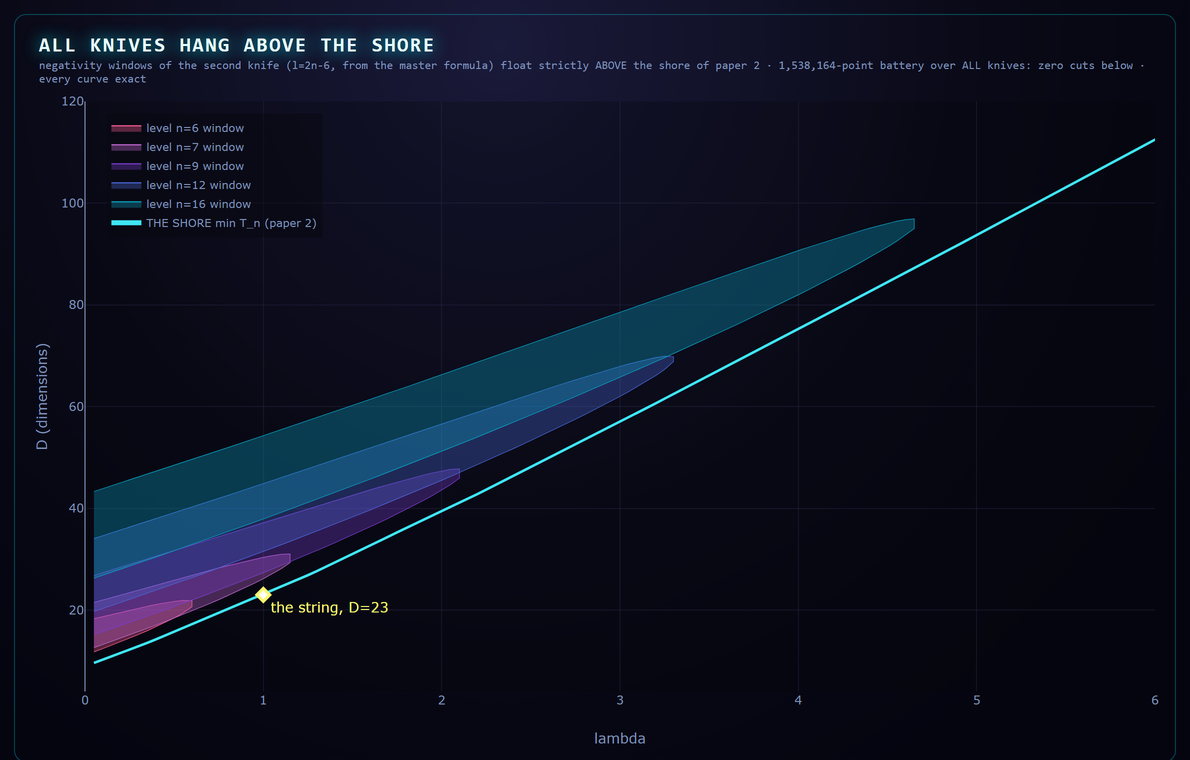
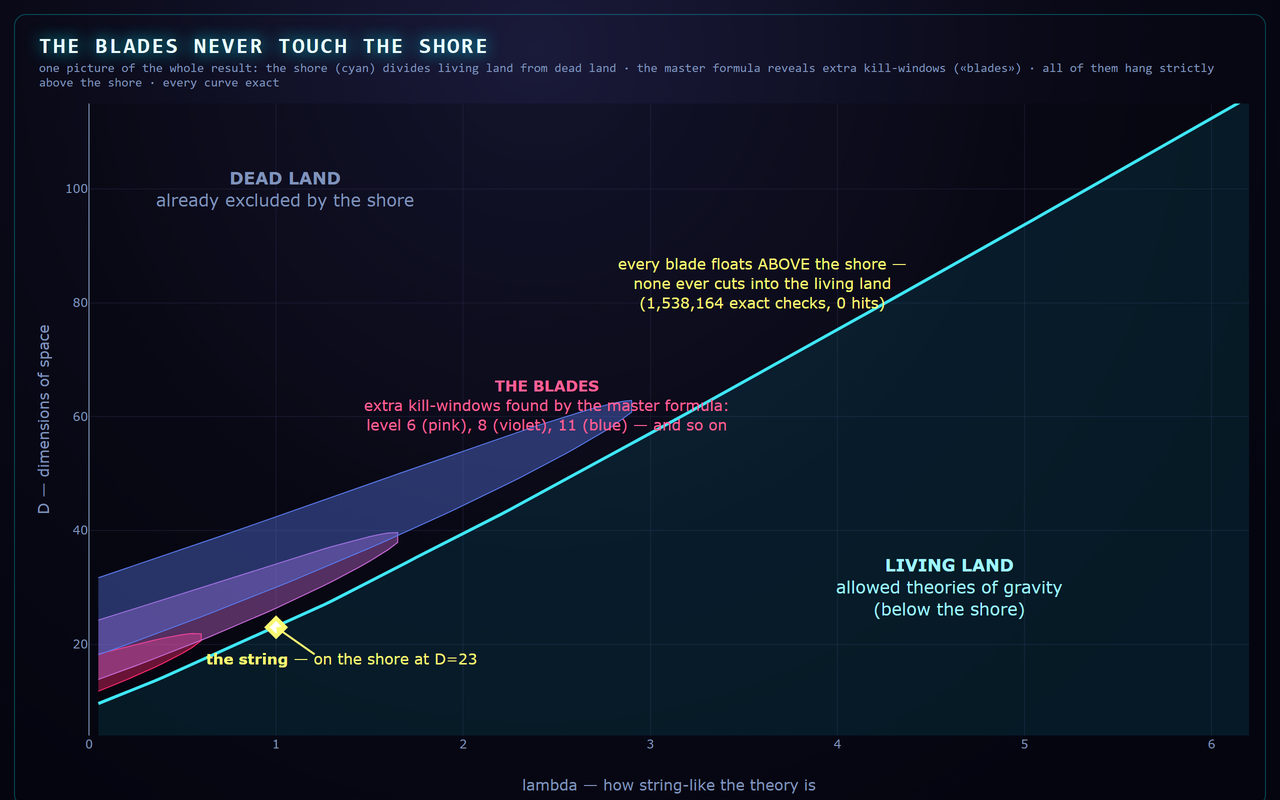
Knives figure v2: plain-word zones (living/dead land, blades), unicode dashes; paper 3 recompiled

diff --git a/article/visuals/knives-above-shore.html b/article/visuals/knives-above-shore.html
@@ -2,16 +2,16 @@
 <script src="https://cdn.plot.ly/plotly-2.32.0.min.js"></script>
 <style>body{margin:0;background:radial-gradient(ellipse at 42% 6%,#1a1a3a 0%,#0a0a18 48%,#050510 82%);font-family:Consolas,monospace}
 .panel{margin:14px;padding:10px;border:1px solid rgba(5,217,232,.3);border-radius:12px}
-h1{color:#eafdff;font-size:20px;margin:8px 14px 2px;letter-spacing:.09em;text-shadow:0 0 16px #05d9e8}
-.sub{color:#7f93bb;font-size:11.5px;margin:0 14px 6px}</style></head><body>
-<div class="panel"><h1>ALL KNIVES HANG ABOVE THE SHORE</h1>
-<p class="sub">negativity windows of the second knife (l=2n-6, from the master formula) float strictly ABOVE the shore of paper 2 &middot; 1,538,164-point battery over ALL knives: zero cuts below &middot; every curve exact</p>
-<div id="p" style="width:1150px;height:660px"></div></div>
+h1{color:#eafdff;font-size:22px;margin:8px 14px 2px;letter-spacing:.09em;text-shadow:0 0 16px #05d9e8}
+.sub{color:#7f93bb;font-size:12.5px;margin:0 14px 6px}</style></head><body>
+<div class="panel"><h1>THE BLADES NEVER TOUCH THE SHORE</h1>
+<p class="sub">one picture of the whole result: the shore (cyan) divides living land from dead land &middot; the master formula reveals extra kill-windows (&laquo;blades&raquo;) &middot; all of them hang strictly above the shore &middot; every curve exact</p>
+<div id="p" style="width:1240px;height:700px"></div></div>
 <script>
-Plotly.newPlot('p', [{"x": [], "y": [], "fill": "toself", "fillcolor": "#ff2a6d55", "line": {"color": "#ff2a6d", "width": 1.2}, "name": "level n=5 window", "mode": "lines"}, {"x": [0.05, 0.1, 0.15000000000000002, 0.2, 0.25, 0.30000000000000004, 0.35000000000000003, 0.4, 0.45, 0.5, 0.55, 0.6000000000000001, 0.6000000000000001, 0.55, 0.5, 0.45, 0.4, 0.35000000000000003, 0.30000000000000004, 0.25, 0.2, 0.15000000000000002, 0.1, 0.05], "y": [18.31577161495437, 18.74368892778793, 19.16588886420697, 19.58080832691688, 19.986419123226185, 20.37999919487043, 20.757732899042175, 21.113951026307788, 21.439507358521, 21.71765488812116, 21.90997501234225, 21.856379357972294, 20.664832763239815, 19.428661351294103, 18.4490117785455, 17.565795671782027, 16.74059442823767, 15.956661040351754, 15.204849289978046, 14.479489967682895, 13.776767430658875, 13.09395962064152, 12.429038344939329, 11.780440506257737], "fill": "toself", "fillcolor": "#ff5f9555", "line": {"color": "#ff5f95", "width": 1.2}, "name": "level n=6 window", "mode": "lines"}, {"x": [0.05, 0.1, 0.15000000000000002, 0.2, 0.25, 0.30000000000000004, 0.35000000000000003, 0.4, 0.45, 0.5, 0.55, 0.6000000000000001, 0.65, 0.7000000000000001, 0.75, 0.8, 0.8500000000000001, 0.9, 0.9500000000000001, 1.0, 1.05, 1.1, 1.1500000000000001, 1.1500000000000001, 1.1, 1.05, 1.0, 0.9500000000000001, 0.9, 0.8500000000000001, 0.8, 0.75, 0.7000000000000001, 0.65, 0.6000000000000001, 0.55, 0.5, 0.45, 0.4, 0.35000000000000003, 0.30000000000000004, 0.25, 0.2, 0.15000000000000002, 0.1, 0.05], "y": [21.506417361472266, 21.999482911149634, 22.492805999429187, 22.986129179944257, 23.479164344308515, 23.971587027455627, 24.4630292542438, 24.9530704391631, 25.44122564444565, 25.926930187149196, 26.40951909362056, 26.88819910728118, 27.362009636228933, 27.82976674369292, 28.2899801498531, 28.740725314721914, 29.179436570664002, 29.602551712540865, 30.004851467485622, 30.378093555442675, 30.707713701463412, 30.962563854371915, 31.040206019819294, 29.34985422114456, 28.139845784182285, 27.116081479259492, 26.176123312027208, 25.28882323130957, 24.439616962157935, 23.620262224516708, 22.825539745519045, 22.05188732002641, 21.296739280403465, 20.55817108666264, 19.83469245898386, 19.125119460596302, 18.428491499597783, 17.74401531940977, 17.071025946379073, 16.40895869756342, 15.757328635194973, 15.115715173763775, 14.483750338128026, 13.86110966322142, 13.247505040657575, 12.642679024069892], "fill": "toself", "fillcolor": "#c86bd855", "line": {"color": "#c86bd8", "width": 1.2}, "name": "level n=7 window", "mode": "lines"}, {"x": [0.05, 0.1, 0.15000000000000002, 0.2, 0.25, 0.30000000000000004, 0.35000000000000003, 0.4, 0.45, 0.5, 0.55, 0.6000000000000001, 0.65, 0.7000000000000001, 0.75, 0.8, 0.8500000000000001, 0.9, 0.9500000000000001, 1.0, 1.05, 1.1, 1.1500000000000001, 1.2000000000000002, 1.25, 1.3, 1.35, 1.4000000000000001, 1.4500000000000002, 1.5, 1.55, 1.6, 1.6500000000000001, 1.7000000000000002, 1.75, 1.8, 1.85, 1.9000000000000001, 1.9500000000000002, 2.0, 2.0500000000000003, 2.1, 2.1, 2.0500000000000003, 2.0, 1.9500000000000002, 1.9000000000000001, 1.85, 1.8, 1.75, 1.7000000000000002, 1.6500000000000001, 1.6, 1.55, 1.5, 1.4500000000000002, 1.4000000000000001, 1.35, 1.3, 1.25, 1.2000000000000002, 1.1500000000000001, 1.1, 1.05, 1.0, 0.9500000000000001, 0.9, 0.8500000000000001, 0.8, 0.75, 0.7000000000000001, 0.65, 0.6000000000000001, 0.55, 0.5, 0.45, 0.4, 0.35000000000000003, 0.30000000000000004, 0.25, 0.2, 0.15000000000000002, 0.1, 0.05], "y": [26.826693532949555, 27.360543167261284, 27.89601068916683, 28.433038926606883, 28.971567397891377, 29.51153201353531, 30.052864742010392, 30.595493233876475, 31.13934039771614, 31.684323920027445, 32.23035571966599, 32.77734132549228, 33.325179163472896, 33.873759736456634, 34.42296467603331, 34.972665641019496, 35.52272303087876, 36.072984474307546, 36.62328304266705, 37.17343512400543, 37.72323787483068, 38.27246614168277, 38.820868710225156, 39.368163691958415, 39.91403279161082, 40.45811410225731, 40.99999293519676, 41.53918998316212, 42.075145797935406, 42.60720006723962, 43.134563377410956, 43.65627782034461, 44.171160507672795, 44.67771990497913, 45.17402698528785, 45.65750710940324, 46.124583114905874, 46.57001381381224, 46.985531830089855, 47.356576532606255, 47.65226288126611, 47.77379586614664, 45.95002092774649, 44.67182108819955, 43.574721177317414, 42.559926185177304, 41.59655107168395, 40.67003520570479, 39.77211121120746, 38.89753790020831, 38.04273811028803, 37.205137202250874, 36.38280614912105, 35.574253416482186, 34.77829611596649, 33.99397633946917, 33.220504673326445, 32.457220805261244, 31.703565287055675, 30.959058811442603, 30.223286689720958, 29.495887014965703, 28.776541491905007, 28.064968232039575, 27.360916021032736, 26.664159705424538, 25.974496441722984, 25.29174261797619, 24.61573130554541, 23.946310133127, 23.283339500184567, 22.626691065534743, 21.976246460767257, 21.331896188730987, 20.693538675392396, 20.061079449612087, 19.434430430245676, 18.813509303791136, 18.19823897883112, 17.588547105925414, 16.984365653545773, 16.38563053220723, 15.792281260219625, 15.204260665523734], "fill": "toself", "fillcolor": "#7a3fd055", "line": {"color": "#7a3fd0", "width": 1.2}, "name": "level n=9 window", "mode": "lines"}, {"x": [0.05, 0.1, 0.15000000000000002, 0.2, 0.25, 0.30000000000000004, 0.35000000000000003, 0.4, 0.45, 0.5, 0.55, 0.6000000000000001, 0.65, 0.7000000000000001, 0.75, 0.8, 0.8500000000000001, 0.9, 0.9500000000000001, 1.0, 1.05, 1.1, 1.1500000000000001, 1.2000000000000002, 1.25, 1.3, 1.35, 1.4000000000000001, 1.4500000000000002, 1.5, 1.55, 1.6, 1.6500000000000001, 1.7000000000000002, 1.75, 1.8, 1.85, 1.9000000000000001, 1.9500000000000002, 2.0, 2.0500000000000003, 2.1, 2.15, 2.2, 2.25, 2.3000000000000003, 2.35, 2.4000000000000004, 2.45, 2.5, 2.5500000000000003, 2.6, 2.6500000000000004, 2.7, 2.75, 2.8000000000000003, 2.85, 2.9000000000000004, 2.95, 3.0, 3.0500000000000003, 3.1, 3.1500000000000004, 3.2, 3.25, 3.3000000000000003, 3.3000000000000003, 3.25, 3.2, 3.1500000000000004, 3.1, 3.0500000000000003, 3.0, 2.95, 2.9000000000000004, 2.85, 2.8000000000000003, 2.75, 2.7, 2.6500000000000004, 2.6, 2.5500000000000003, 2.5, 2.45, 2.4000000000000004, 2.35, 2.3000000000000003, 2.25, 2.2, 2.15, 2.1, 2.0500000000000003, 2.0, 1.9500000000000002, 1.9000000000000001, 1.85, 1.8, 1.75, 1.7000000000000002, 1.6500000000000001, 1.6, 1.55, 1.5, 1.4500000000000002, 1.4000000000000001, 1.35, 1.3, 1.25, 1.2000000000000002, 1.1500000000000001, 1.1, 1.05, 1.0, 0.9500000000000001, 0.9, 0.8500000000000001, 0.8, 0.75, 0.7000000000000001, 0.65, 0.6000000000000001, 0.55, 0.5, 0.45, 0.4, 0.35000000000000003, 0.30000000000000004, 0.25, 0.2, 0.15000000000000002, 0.1, 0.05], "y": [34.0759267382616, 34.63024697937573, 35.18615767936592, 35.74363982825594, 36.302673746313744, 36.86323904722012, 37.42531459854061, 37.988878479256456, 38.55390793407541, 39.12037932422287, 39.688268074363435, 40.25754861527987, 40.82819432187719, 41.40017744603503, 41.97346904377075, 42.54803889610716, 43.12385542295914, 43.70088558926807, 44.279094802500964, 44.8584468005221, 45.438903528691654, 46.02042500489141, 46.602969170988644, 47.18649172900959, 47.770945960053, 48.35628252363868, 48.94244923483281, 49.52939081603927, 50.11704861982237, 50.705360318489326, 51.29425955539318, 51.883675551983515, 52.47353266350163, 53.06374987480734, 53.6542402261248, 54.24491015633514, 54.83565874878761, 55.42637686123511, 56.016946117233374, 56.60723773090612, 57.197111129957165, 57.78641233268466, 58.37497202278526, 58.96260324983345, 59.54909866202203, 60.134227148785385, 60.717729731110225, 61.29931448170852, 61.878650178349616, 62.45535827978598, 63.02900264616248, 63.59907617391737, 64.16498312733215, 64.72601533519976, 65.28131941985615, 65.8298505334191, 66.37030509589617, 66.90101952278067, 67.41981115072875, 67.92371493966685, 68.40851766878144, 68.86785824917092, 69.29126451123572, 69.65900485719317, 69.92346614578219, 69.84191318676451, 68.85819527310532, 67.30579090410934, 66.10455262653781, 65.01174525015257, 63.97975563369239, 62.98885217937476, 62.02856271759994, 61.092526159466445, 60.17652928416075, 59.27760705160924, 58.39357679846809, 57.52277494023059, 56.66389789690432, 55.815900820607126, 54.97793033367479, 54.149278264900445, 53.32934887856541, 52.51763507110806, 51.71370070267325, 50.917167232013384, 50.12770343689792, 49.34501739003868, 48.56885011242245, 47.79897049348371, 47.035171181415066, 46.2772652257912, 45.5250833103086, 44.778471453265496, 44.03728908236573, 43.30140741173295, 42.570708064923, 41.84508189968862, 41.124427999379165, 40.40865280287581, 39.69766935040255, 38.99139662681942, 38.28975898736748, 37.59268565349646, 36.900110268559416, 36.21197050486346, 35.528207714973036, 34.84876662129189, 34.17359503888623, 33.502643627276, 32.835865667559744, 32.17321686176389, 31.51465515175549, 30.860140555416564, 30.209635018107207, 29.563102277691584, 28.920507741636897, 28.281818374884338, 27.6470025973489, 27.016030190053385, 26.38887220901512, 25.765500906113786, 25.14588965625436, 24.530012890219567, 23.91784603267415, 23.309365444843316, 22.704548371434996, 22.103372891430283, 21.505817872394807, 20.91186292800935, 20.321488378541844, 19.734675214016058], "fill": "toself", "fillcolor": "#4a68d855", "line": {"color": "#4a68d8", "width": 1.2}, "name": "level n=12 window", "mode": "lines"}, {"x": [0.05, 0.1, 0.15000000000000002, 0.2, 0.25, 0.30000000000000004, 0.35000000000000003, 0.4, 0.45, 0.5, 0.55, 0.6000000000000001, 0.65, 0.7000000000000001, 0.75, 0.8, 0.8500000000000001, 0.9, 0.9500000000000001, 1.0, 1.05, 1.1, 1.1500000000000001, 1.2000000000000002, 1.25, 1.3, 1.35, 1.4000000000000001, 1.4500000000000002, 1.5, 1.55, 1.6, 1.6500000000000001, 1.7000000000000002, 1.75, 1.8, 1.85, 1.9000000000000001, 1.9500000000000002, 2.0, 2.0500000000000003, 2.1, 2.15, 2.2, 2.25, 2.3000000000000003, 2.35, 2.4000000000000004, 2.45, 2.5, 2.5500000000000003, 2.6, 2.6500000000000004, 2.7, 2.75, 2.8000000000000003, 2.85, 2.9000000000000004, 2.95, 3.0, 3.0500000000000003, 3.1, 3.1500000000000004, 3.2, 3.25, 3.3000000000000003, 3.35, 3.4000000000000004, 3.45, 3.5, 3.5500000000000003, 3.6, 3.6500000000000004, 3.7, 3.75, 3.8000000000000003, 3.85, 3.9000000000000004, 3.95, 4.0, 4.05, 4.1000000000000005, 4.15, 4.2, 4.25, 4.3, 4.3500000000000005, 4.4, 4.45, 4.5, 4.55, 4.6000000000000005, 4.65, 4.65, 4.6000000000000005, 4.55, 4.5, 4.45, 4.4, 4.3500000000000005, 4.3, 4.25, 4.2, 4.15, 4.1000000000000005, 4.05, 4.0, 3.95, 3.9000000000000004, 3.85, 3.8000000000000003, 3.75, 3.7, 3.6500000000000004, 3.6, 3.5500000000000003, 3.5, 3.45, 3.4000000000000004, 3.35, 3.3000000000000003, 3.25, 3.2, 3.1500000000000004, 3.1, 3.0500000000000003, 3.0, 2.95, 2.9000000000000004, 2.85, 2.8000000000000003, 2.75, 2.7, 2.6500000000000004, 2.6, 2.5500000000000003, 2.5, 2.45, 2.4000000000000004, 2.35, 2.3000000000000003, 2.25, 2.2, 2.15, 2.1, 2.0500000000000003, 2.0, 1.9500000000000002, 1.9000000000000001, 1.85, 1.8, 1.75, 1.7000000000000002, 1.6500000000000001, 1.6, 1.55, 1.5, 1.4500000000000002, 1.4000000000000001, 1.35, 1.3, 1.25, 1.2000000000000002, 1.1500000000000001, 1.1, 1.05, 1.0, 0.9500000000000001, 0.9, 0.8500000000000001, 0.8, 0.75, 0.7000000000000001, 0.65, 0.6000000000000001, 0.55, 0.5, 0.45, 0.4, 0.35000000000000003, 0.30000000000000004, 0.25, 0.2, 0.15000000000000002, 0.1, 0.05], "y": [43.326858845548216, 43.89252169690661, 44.459510384280165, 45.0278169706793, 45.59743332653056, 46.16835112238732, 46.740561821274326, 47.31405667064294, 47.88882669391474, 48.46486268158421, 49.04215518185396, 49.620694490773914, 50.2004706418428, 50.7814733950474, 51.36369222529319, 51.94711631018599, 52.53173451712031, 53.11753538962519, 53.70450713291336, 54.292637598575794, 54.88191426835742, 55.47232423694916, 56.06385419371588, 56.656490403283414, 57.25021868488996, 57.845024390411325, 58.44089238094399, 59.03780700183779, 59.63575205603806, 60.23471077560866, 60.834665791265266, 61.43559909975703, 62.0374920289008, 62.64032520005469, 63.24407848780531, 63.84873097659626, 64.45426091401926, 65.0606456604398, 65.66786163460104, 66.27588425479595, 66.88468787516837, 67.49424571662236, 68.10452979178118, 68.71551082334291, 69.32715815510979, 69.93943965486326, 70.5523216081515, 71.16576860191111, 71.77974339671636, 72.39420678624163, 73.0091174423478, 73.62443174392168, 74.2401035873439, 74.85608417608864, 75.47232178657578, 76.08876150687456, 76.70534494432127, 77.32200989735446, 77.93868998606155, 78.55531423486039, 79.17180659947843, 79.78808542882868, 80.40406285042582, 81.01964406557002, 81.63472653750384, 82.24919905187903, 82.86294062401052, 83.47581922108753, 84.08769025941083, 84.69839482606332, 85.30775756040194, 85.91558411198025, 86.52165806623142, 87.12573719452757, 87.72754883719773, 88.32678416033008, 88.9230909301832, 89.51606430748546, 90.10523495312395, 90.69005341560688, 91.26986926875605, 91.84390266037082, 92.411204589054, 92.97059990409343, 93.52060282564233, 94.05928678120475, 94.58407409431408, 95.09137529734261, 95.57592085592418, 96.02938638161478, 96.43710217161205, 96.76799650401679, 96.92358912448182, 95.00971379522613, 93.6612005762752, 92.49182118605216, 91.40309537020997, 90.36395140684948, 89.35971959316831, 88.38207554072244, 87.4257497151456, 86.48715264881022, 85.56370666524958, 84.65348519196783, 83.75500244911825, 82.86708328598849, 81.98877870118142, 81.11930884249642, 80.25802328375534, 79.40437257346645, 78.55788737251666, 77.71816284163435, 76.8848467470782, 76.05763025493638, 75.23624070553802, 74.42043587025499, 73.60999933452057, 72.80473674788841, 72.00447274971533, 71.20904842708437, 70.41831919629612, 69.63215302453996, 68.85042892713066, 68.07303568972011, 67.29987077555087, 66.53083938592303, 65.76585364835128, 65.00483191174862, 64.24769813184253, 63.49438133305101, 62.74481513546118, 61.99893733751179, 61.25668954653902, 60.51801685061227, 59.78286752615132, 59.05119277663029, 58.32294649842987, 57.59808507043691, 56.876567164512196, 56.15835357433025, 55.44340706046518, 54.731692209853705, 54.0231753080439, 53.31782422281731, 52.61560829797621, 51.9164982562185, 51.22046611016752, 50.5274850807274, 49.837529522041876, 49.150574852404134, 48.466597490557035, 47.785574796866186, 47.107485018923356, 46.43230724117214, 45.76002133819917, 45.090607931362456, 44.424048348478905, 43.76032458629767, 43.099419275534444, 42.44131564825308, 41.78599750739892, 41.13344919832171, 40.48365558211802, 39.83660201066361, 39.19227430319684, 38.55065872434331, 37.911741963467975, 37.275511115261764, 36.64195366146963, 36.011057453682625, 35.38281069711327, 34.757201935290695, 34.13422003560949, 33.51385417567542, 32.89609383039398, 32.28092875975186, 31.668348997247918, 31.058344838931944, 30.450906833006627, 29.846025769966545, 29.243692673233113, 28.643898790257737, 28.046635584065186, 27.451894725208817, 26.859668084115327, 26.26994772379483], "fill": "toself", "fillcolor": "#0aa3c255", "line": {"color": "#0aa3c2", "width": 1.2}, "name": "level n=16 window", "mode": "lines"}, {"x": [0.05, 0.1, 0.15000000000000002, 0.2, 0.25, 0.30000000000000004, 0.35000000000000003, 0.4, 0.45, 0.5, 0.55, 0.6000000000000001, 0.65, 0.7000000000000001, 0.75, 0.8, 0.8500000000000001, 0.9, 0.9500000000000001, 1.0, 1.05, 1.1, 1.1500000000000001, 1.2000000000000002, 1.25, 1.3, 1.35, 1.4000000000000001, 1.4500000000000002, 1.5, 1.55, 1.6, 1.6500000000000001, 1.7000000000000002, 1.75, 1.8, 1.85, 1.9000000000000001, 1.9500000000000002, 2.0, 2.0500000000000003, 2.1, 2.15, 2.2, 2.25, 2.3000000000000003, 2.35, 2.4000000000000004, 2.45, 2.5, 2.5500000000000003, 2.6, 2.6500000000000004, 2.7, 2.75, 2.8000000000000003, 2.85, 2.9000000000000004, 2.95, 3.0, 3.0500000000000003, 3.1, 3.1500000000000004, 3.2, 3.25, 3.3000000000000003, 3.35, 3.4000000000000004, 3.45, 3.5, 3.5500000000000003, 3.6, 3.6500000000000004, 3.7, 3.75, 3.8000000000000003, 3.85, 3.9000000000000004, 3.95, 4.0, 4.05, 4.1000000000000005, 4.15, 4.2, 4.25, 4.3, 4.3500000000000005, 4.4, 4.45, 4.5, 4.55, 4.6000000000000005, 4.65, 4.7, 4.75, 4.800000000000001, 4.8500000000000005, 4.9, 4.95, 5.0, 5.050000000000001, 5.1000000000000005, 5.15, 5.2, 5.25, 5.300000000000001, 5.3500000000000005, 5.4, 5.45, 5.5, 5.550000000000001, 5.6000000000000005, 5.65, 5.7, 5.75, 5.800000000000001, 5.8500000000000005, 5.9, 5.95, 6.0, 6.050000000000001, 6.1000000000000005, 6.15, 6.2, 6.25, 6.300000000000001, 6.3500000000000005, 6.4, 6.45, 6.5, 6.550000000000001, 6.6000000000000005, 6.65, 6.7, 6.75, 6.800000000000001, 6.8500000000000005, 6.9, 6.95, 7.0, 7.050000000000001, 7.1000000000000005, 7.15, 7.2, 7.25, 7.300000000000001, 7.3500000000000005, 7.4, 7.45, 7.5, 7.550000000000001, 7.6000000000000005, 7.65, 7.7, 7.75, 7.800000000000001, 7.8500000000000005, 7.9, 7.95, 8.0, 8.05, 8.1, 8.15, 8.200000000000001, 8.25, 8.3, 8.35, 8.4, 8.450000000000001, 8.5, 8.55, 8.6, 8.65, 8.700000000000001, 8.75, 8.8, 8.85, 8.9, 8.950000000000001, 9.0, 9.05, 9.1, 9.15, 9.200000000000001, 9.25, 9.3, 9.35, 9.4, 9.450000000000001, 9.5, 9.55, 9.600000000000001, 9.65, 9.700000000000001, 9.75, 9.8, 9.850000000000001, 9.9, 9.950000000000001, 10.0], "y": [9.6075, 10.23, 10.8675, 11.52, 12.1875, 12.870000000000001, 13.567499999999999, 14.280000000000001, 15.0075, 15.75, 16.5075, 17.28, 17.9796875, 18.668750000000003, 19.3671875, 20.075000000000003, 20.7921875, 21.51875, 22.2546875, 23.0, 23.7546875, 24.51875, 25.2921875, 26.075000000000003, 26.8671875, 27.66875, 28.4796875, 29.3, 30.129687500000003, 30.96875, 31.817187500000003, 32.675000000000004, 33.5421875, 34.41875, 35.287499999999994, 36.096000000000004, 36.911500000000004, 37.734, 38.563500000000005, 39.4, 40.2435, 41.093999999999994, 41.951499999999996, 42.816, 43.6875, 44.566, 45.4515, 46.344, 47.243500000000004, 48.15, 49.063500000000005, 49.98, 50.83781250000001, 51.70125, 52.5703125, 53.44500000000001, 54.3253125, 55.21125000000001, 56.1028125, 57.0, 57.90281250000001, 58.81125, 59.72531250000001, 60.645, 61.5703125, 62.50125, 63.42692857142857, 64.31085714285715, 65.1995, 66.09285714285714, 66.99092857142857, 67.89371428571428, 68.8012142857143, 69.71342857142858, 70.63035714285715, 71.552, 72.47835714285715, 73.40942857142858, 74.34521428571429, 75.28571428571428, 76.20828125, 77.108125, 78.01203125, 78.92, 79.83203125, 80.748125, 81.66828125, 82.5925, 83.52078125, 84.453125, 85.38953124999999, 86.33, 87.27453125000001, 88.20714285714287, 89.11607142857143, 90.02857142857144, 90.94464285714287, 91.86428571428573, 92.78750000000001, 93.71428571428572, 94.64464285714287, 95.57857142857144, 96.51607142857144, 97.45714285714287, 98.40178571428572, 99.35000000000001, 100.27559375, 101.19200000000001, 102.11159375, 103.034375, 103.96034375, 104.88950000000001, 105.82184375, 106.757375, 107.69609374999999, 108.638, 109.58309375, 110.53137499999998, 111.47416666666668, 112.3939393939394, 113.31659090909093, 114.24212121212123, 115.1705303030303, 116.10181818181819, 117.03598484848486, 117.97303030303033, 118.91295454545457, 119.8557575757576, 120.80143939393939, 121.75000000000001, 122.70131250000001, 123.62400000000001, 124.54931250000001, 125.47725000000001, 126.4078125, 127.34100000000002, 128.2768125, 129.21525000000003, 130.1563125, 131.10000000000002, 132.04631250000003, 132.99525, 133.94681250000002, 134.87524475524475, 135.8028846153846, 136.73293706293708, 137.6654020979021, 138.60027972027973, 139.53756993006994, 140.47727272727272, 141.4193881118881, 142.36391608391608, 143.31085664335666, 144.26020979020979, 145.21197552447552, 146.14285714285717, 147.07254464285717, 148.00446428571428, 148.9386160714286, 149.875, 150.81361607142858, 151.75446428571428, 152.69754464285714, 153.64285714285717, 154.59040178571428, 155.5401785714286, 156.4921875, 157.42338461538463, 158.35488461538463, 159.28846153846155, 160.2241153846154, 161.16184615384617, 162.10165384615388, 163.04353846153847, 163.9875, 164.9335384615385, 165.88165384615382, 166.83184615384616, 167.78311383928576, 168.71428571428572, 169.64739955357143, 170.58245535714286, 171.519453125, 172.4583928571429, 173.39927455357144, 174.34209821428573, 175.28686383928573, 176.23357142857142, 177.1822209821429, 178.1328125, 179.0809117647059, 180.01364705882355, 180.94820588235294, 181.88458823529413, 182.82279411764705, 183.76282352941178, 184.70467647058825, 185.64835294117646, 186.59385294117646, 187.54117647058823], "mode": "lines", "name": "THE SHORE min T_n (paper 2)", "line": {"color": "#3fe7f5", "width": 5}}, {"x": [1], "y": [23], "mode": "markers+text", "text": ["the string, D=23"], "textposition": "bottom right", "textfont": {"color": "#f9f871", "size": 14}, "marker": {"color": "#ffffff", "size": 10, "symbol": "diamond", "line": {"color": "#f9f871", "width": 3}}, "showlegend": false}],
+Plotly.newPlot('p', [{"x": [0.05, 0.1, 0.15000000000000002, 0.2, 0.25, 0.30000000000000004, 0.35000000000000003, 0.4, 0.45, 0.5, 0.55, 0.6000000000000001, 0.65, 0.7000000000000001, 0.75, 0.8, 0.8500000000000001, 0.9, 0.9500000000000001, 1.0, 1.05, 1.1, 1.1500000000000001, 1.2000000000000002, 1.25, 1.3, 1.35, 1.4000000000000001, 1.4500000000000002, 1.5, 1.55, 1.6, 1.6500000000000001, 1.7000000000000002, 1.75, 1.8, 1.85, 1.9000000000000001, 1.9500000000000002, 2.0, 2.0500000000000003, 2.1, 2.15, 2.2, 2.25, 2.3000000000000003, 2.35, 2.4000000000000004, 2.45, 2.5, 2.5500000000000003, 2.6, 2.6500000000000004, 2.7, 2.75, 2.8000000000000003, 2.85, 2.9000000000000004, 2.95, 3.0, 3.0500000000000003, 3.1, 3.1500000000000004, 3.2, 3.25, 3.3000000000000003, 3.35, 3.4000000000000004, 3.45, 3.5, 3.5500000000000003, 3.6, 3.6500000000000004, 3.7, 3.75, 3.8000000000000003, 3.85, 3.9000000000000004, 3.95, 4.0, 4.05, 4.1000000000000005, 4.15, 4.2, 4.25, 4.3, 4.3500000000000005, 4.4, 4.45, 4.5, 4.55, 4.6000000000000005, 4.65, 4.7, 4.75, 4.800000000000001, 4.8500000000000005, 4.9, 4.95, 5.0, 5.050000000000001, 5.1000000000000005, 5.15, 5.2, 5.25, 5.300000000000001, 5.3500000000000005, 5.4, 5.45, 5.5, 5.550000000000001, 5.6000000000000005, 5.65, 5.7, 5.75, 5.800000000000001, 5.8500000000000005, 5.9, 5.95, 6.0, 6.050000000000001, 6.1000000000000005, 6.15, 6.2, 6.25, 6.300000000000001, 6.3500000000000005, 6.4, 6.45, 6.5, 6.550000000000001, 6.6000000000000005, 6.65, 6.7, 6.75, 6.800000000000001, 6.8500000000000005, 6.9, 6.95, 7.0, 7.0, 6.95, 6.9, 6.8500000000000005, 6.800000000000001, 6.75, 6.7, 6.65, 6.6000000000000005, 6.550000000000001, 6.5, 6.45, 6.4, 6.3500000000000005, 6.300000000000001, 6.25, 6.2, 6.15, 6.1000000000000005, 6.050000000000001, 6.0, 5.95, 5.9, 5.8500000000000005, 5.800000000000001, 5.75, 5.7, 5.65, 5.6000000000000005, 5.550000000000001, 5.5, 5.45, 5.4, 5.3500000000000005, 5.300000000000001, 5.25, 5.2, 5.15, 5.1000000000000005, 5.050000000000001, 5.0, 4.95, 4.9, 4.8500000000000005, 4.800000000000001, 4.75, 4.7, 4.65, 4.6000000000000005, 4.55, 4.5, 4.45, 4.4, 4.3500000000000005, 4.3, 4.25, 4.2, 4.15, 4.1000000000000005, 4.05, 4.0, 3.95, 3.9000000000000004, 3.85, 3.8000000000000003, 3.75, 3.7, 3.6500000000000004, 3.6, 3.5500000000000003, 3.5, 3.45, 3.4000000000000004, 3.35, 3.3000000000000003, 3.25, 3.2, 3.1500000000000004, 3.1, 3.0500000000000003, 3.0, 2.95, 2.9000000000000004, 2.85, 2.8000000000000003, 2.75, 2.7, 2.6500000000000004, 2.6, 2.5500000000000003, 2.5, 2.45, 2.4000000000000004, 2.35, 2.3000000000000003, 2.25, 2.2, 2.15, 2.1, 2.0500000000000003, 2.0, 1.9500000000000002, 1.9000000000000001, 1.85, 1.8, 1.75, 1.7000000000000002, 1.6500000000000001, 1.6, 1.55, 1.5, 1.4500000000000002, 1.4000000000000001, 1.35, 1.3, 1.25, 1.2000000000000002, 1.1500000000000001, 1.1, 1.05, 1.0, 0.9500000000000001, 0.9, 0.8500000000000001, 0.8, 0.75, 0.7000000000000001, 0.65, 0.6000000000000001, 0.55, 0.5, 0.45, 0.4, 0.35000000000000003, 0.30000000000000004, 0.25, 0.2, 0.15000000000000002, 0.1, 0.05], "y": [9.6075, 10.23, 10.8675, 11.52, 12.1875, 12.870000000000001, 13.567499999999999, 14.280000000000001, 15.0075, 15.75, 16.5075, 17.28, 17.9796875, 18.668750000000003, 19.3671875, 20.075000000000003, 20.7921875, 21.51875, 22.2546875, 23.0, 23.7546875, 24.51875, 25.2921875, 26.075000000000003, 26.8671875, 27.66875, 28.4796875, 29.3, 30.129687500000003, 30.96875, 31.817187500000003, 32.675000000000004, 33.5421875, 34.41875, 35.287499999999994, 36.096000000000004, 36.911500000000004, 37.734, 38.563500000000005, 39.4, 40.2435, 41.093999999999994, 41.951499999999996, 42.816, 43.6875, 44.566, 45.4515, 46.344, 47.243500000000004, 48.15, 49.063500000000005, 49.98, 50.83781250000001, 51.70125, 52.5703125, 53.44500000000001, 54.3253125, 55.21125000000001, 56.1028125, 57.0, 57.90281250000001, 58.81125, 59.72531250000001, 60.645, 61.5703125, 62.50125, 63.42692857142857, 64.31085714285715, 65.1995, 66.09285714285714, 66.99092857142857, 67.89371428571428, 68.8012142857143, 69.71342857142858, 70.63035714285715, 71.552, 72.47835714285715, 73.40942857142858, 74.34521428571429, 75.28571428571428, 76.20828125, 77.108125, 78.01203125, 78.92, 79.83203125, 80.748125, 81.66828125, 82.5925, 83.52078125, 84.453125, 85.38953124999999, 86.33, 87.27453125000001, 88.20714285714287, 89.11607142857143, 90.02857142857144, 90.94464285714287, 91.86428571428573, 92.78750000000001, 93.71428571428572, 94.64464285714287, 95.57857142857144, 96.51607142857144, 97.45714285714287, 98.40178571428572, 99.35000000000001, 100.27559375, 101.19200000000001, 102.11159375, 103.034375, 103.96034375, 104.88950000000001, 105.82184375, 106.757375, 107.69609374999999, 108.638, 109.58309375, 110.53137499999998, 111.47416666666668, 112.3939393939394, 113.31659090909093, 114.24212121212123, 115.1705303030303, 116.10181818181819, 117.03598484848486, 117.97303030303033, 118.91295454545457, 119.8557575757576, 120.80143939393939, 121.75000000000001, 122.70131250000001, 123.62400000000001, 124.54931250000001, 125.47725000000001, 126.4078125, 127.34100000000002, 128.2768125, 129.21525000000003, 130.1563125, 131.10000000000002, 0, 0, 0, 0, 0, 0, 0, 0, 0, 0, 0, 0, 0, 0, 0, 0, 0, 0, 0, 0, 0, 0, 0, 0, 0, 0, 0, 0, 0, 0, 0, 0, 0, 0, 0, 0, 0, 0, 0, 0, 0, 0, 0, 0, 0, 0, 0, 0, 0, 0, 0, 0, 0, 0, 0, 0, 0, 0, 0, 0, 0, 0, 0, 0, 0, 0, 0, 0, 0, 0, 0, 0, 0, 0, 0, 0, 0, 0, 0, 0, 0, 0, 0, 0, 0, 0, 0, 0, 0, 0, 0, 0, 0, 0, 0, 0, 0, 0, 0, 0, 0, 0, 0, 0, 0, 0, 0, 0, 0, 0, 0, 0, 0, 0, 0, 0, 0, 0, 0, 0, 0, 0, 0, 0, 0, 0, 0, 0, 0, 0, 0, 0, 0, 0, 0, 0, 0, 0, 0, 0], "fill": "toself", "fillcolor": "rgba(10,163,194,0.13)", "line": {"width": 0}, "mode": "lines", "showlegend": false, "hoverinfo": "skip"}, {"x": [0.05, 0.1, 0.15000000000000002, 0.2, 0.25, 0.30000000000000004, 0.35000000000000003, 0.4, 0.45, 0.5, 0.55, 0.6000000000000001, 0.6000000000000001, 0.55, 0.5, 0.45, 0.4, 0.35000000000000003, 0.30000000000000004, 0.25, 0.2, 0.15000000000000002, 0.1, 0.05], "y": [18.31577161495437, 18.74368892778793, 19.16588886420697, 19.58080832691688, 19.986419123226185, 20.37999919487043, 20.757732899042175, 21.113951026307788, 21.439507358521, 21.71765488812116, 21.90997501234225, 21.856379357972294, 20.664832763239815, 19.428661351294103, 18.4490117785455, 17.565795671782027, 16.74059442823767, 15.956661040351754, 15.204849289978046, 14.479489967682895, 13.776767430658875, 13.09395962064152, 12.429038344939329, 11.780440506257737], "fill": "toself", "fillcolor": "#ff2a6d66", "line": {"color": "#ff2a6d", "width": 2}, "mode": "lines", "showlegend": false}, {"x": [0.05, 0.1, 0.15000000000000002, 0.2, 0.25, 0.30000000000000004, 0.35000000000000003, 0.4, 0.45, 0.5, 0.55, 0.6000000000000001, 0.65, 0.7000000000000001, 0.75, 0.8, 0.8500000000000001, 0.9, 0.9500000000000001, 1.0, 1.05, 1.1, 1.1500000000000001, 1.2000000000000002, 1.25, 1.3, 1.35, 1.4000000000000001, 1.4500000000000002, 1.5, 1.55, 1.6, 1.6500000000000001, 1.6500000000000001, 1.6, 1.55, 1.5, 1.4500000000000002, 1.4000000000000001, 1.35, 1.3, 1.25, 1.2000000000000002, 1.1500000000000001, 1.1, 1.05, 1.0, 0.9500000000000001, 0.9, 0.8500000000000001, 0.8, 0.75, 0.7000000000000001, 0.65, 0.6000000000000001, 0.55, 0.5, 0.45, 0.4, 0.35000000000000003, 0.30000000000000004, 0.25, 0.2, 0.15000000000000002, 0.1, 0.05], "y": [24.25901585346135, 24.778398497049047, 25.299114910220617, 25.821061090940553, 26.344125055194965, 26.86818588495364, 27.39311262237863, 27.91876297852373, 28.444981816668495, 28.971599359858395, 29.498429058248597, 30.025265033209713, 30.551878989970497, 31.07801645612379, 31.60339215553209, 32.1276842598454, 32.65052716341083, 33.17150228662412, 33.69012620314215, 34.205835066860615, 34.717963814806104, 35.22571781722723, 35.72813330583459, 36.224020591145226, 36.71187987863002, 37.189771466279545, 37.655105742856485, 38.1042822673283, 38.532018821529206, 38.929963763323556, 39.28334508551439, 39.56055462755006, 39.65778888432111, 37.92042540139319, 36.66230251530707, 35.59201205734276, 34.605750522390714, 33.67190974989935, 32.77571773267171, 31.908822828572085, 31.065942819434753, 30.243477264227117, 29.4388365517119, 28.65008097987971, 27.87571075420132, 27.114536185193913, 26.365593504567954, 25.628088082572113, 24.90135485623302, 24.1848299794463, 23.478030025868904, 22.78053641589647, 22.091983543876182, 21.412049581458078, 20.74044925250456, 20.07692808460856, 19.42125778299875, 18.773232469045773, 18.132665592904843, 17.49938737762134, 16.87324268647493, 16.254089230519305, 15.641796051916593, 15.036242232636539, 14.437315788665238, 13.844912717967233], "fill": "toself", "fillcolor": "#c86bd866", "line": {"color": "#c86bd8", "width": 2}, "mode": "lines", "showlegend": false}, {"x": [0.05, 0.1, 0.15000000000000002, 0.2, 0.25, 0.30000000000000004, 0.35000000000000003, 0.4, 0.45, 0.5, 0.55, 0.6000000000000001, 0.65, 0.7000000000000001, 0.75, 0.8, 0.8500000000000001, 0.9, 0.9500000000000001, 1.0, 1.05, 1.1, 1.1500000000000001, 1.2000000000000002, 1.25, 1.3, 1.35, 1.4000000000000001, 1.4500000000000002, 1.5, 1.55, 1.6, 1.6500000000000001, 1.7000000000000002, 1.75, 1.8, 1.85, 1.9000000000000001, 1.9500000000000002, 2.0, 2.0500000000000003, 2.1, 2.15, 2.2, 2.25, 2.3000000000000003, 2.35, 2.4000000000000004, 2.45, 2.5, 2.5500000000000003, 2.6, 2.6500000000000004, 2.7, 2.75, 2.8000000000000003, 2.85, 2.9000000000000004, 2.9000000000000004, 2.85, 2.8000000000000003, 2.75, 2.7, 2.6500000000000004, 2.6, 2.5500000000000003, 2.5, 2.45, 2.4000000000000004, 2.35, 2.3000000000000003, 2.25, 2.2, 2.15, 2.1, 2.0500000000000003, 2.0, 1.9500000000000002, 1.9000000000000001, 1.85, 1.8, 1.75, 1.7000000000000002, 1.6500000000000001, 1.6, 1.55, 1.5, 1.4500000000000002, 1.4000000000000001, 1.35, 1.3, 1.25, 1.2000000000000002, 1.1500000000000001, 1.1, 1.05, 1.0, 0.9500000000000001, 0.9, 0.8500000000000001, 0.8, 0.75, 0.7000000000000001, 0.65, 0.6000000000000001, 0.55, 0.5, 0.45, 0.4, 0.35000000000000003, 0.30000000000000004, 0.25, 0.2, 0.15000000000000002, 0.1, 0.05], "y": [31.70604140191874, 32.255563536634725, 32.80673258124445, 33.359522917334075, 33.9139078970954, 34.46985977879267, 35.027349656838425, 35.58634738590695, 36.14682149844728, 36.70873911487391, 37.27206584561529, 37.836765684091844, 38.402800889564816, 38.9701318586488, 39.53871698410501, 40.10851249932743, 40.67947230669536, 41.251547787679556, 41.824687592253554, 42.39883740476432, 42.973939682935736, 43.54993336611065, 44.12675354814375, 44.704331109529704, 45.28259230233087, 45.86145828023302, 46.44084456453325, 47.02066043497469, 47.60080823199422, 48.1811825540143, 48.76166932967929, 49.34214474022987, 49.92247396113447, 50.50250968427329, 51.08209037173505, 51.66103817879991, 52.23915646571555, 52.816226793631046, 53.39200526696166, 53.96621803865557, 54.53855573043616, 55.10866642813697, 55.67614677839882, 56.24053051435111, 56.80127343623177, 57.35773340318903, 57.90914313982897, 58.45457241505693, 58.9928740089521, 59.52260403675835, 60.04189992242044, 60.5482846613381, 61.038334147391595, 61.50706795708045, 61.94671583981443, 62.34383387482235, 62.67083476168186, 62.84697841625808, 60.77815054468519, 59.50265455298285, 58.383653229083336, 57.340406488851755, 56.34532703186572, 55.38497093735418, 54.45156795472674, 53.540137660483026, 52.64725594850326, 51.770445814187184, 50.907844681479546, 50.058008665624214, 49.21979054670045, 48.39226009361349, 47.57465003096942, 46.76631821791658, 45.966720454692805, 45.175390474427545, 44.391924923761536, 43.615971888528335, 42.84722199045149, 42.08540138247896, 41.33026616902619, 40.5815979112421, 39.839199969374434, 39.10289449870342, 38.37251996131765, 37.647929049097414, 36.92898693751111, 36.21556980779941, 35.50756358860676, 34.804862878355465, 34.10737001748254, 33.41499428573104, 32.72765120439806, 32.04526192716946, 31.367752706107467, 30.69505442170687, 30.027102167822257, 29.363834883796514, 28.705195027353604, 28.05112828284036, 27.401583300230435, 26.75651146099448, 26.11586666751183, 25.47960515317653, 24.84768531074971, 24.22006753684603, 23.59671409072667, 22.977588965812075, 22.36265777253079, 21.751887631297144, 21.14524707456033, 20.54270595699451, 19.944235373012255, 19.349807580877908, 18.75939593278307, 18.172974810314123], "fill": "toself", "fillcolor": "#5a78e866", "line": {"color": "#5a78e8", "width": 2}, "mode": "lines", "showlegend": false}, {"x": [0.05, 0.1, 0.15000000000000002, 0.2, 0.25, 0.30000000000000004, 0.35000000000000003, 0.4, 0.45, 0.5, 0.55, 0.6000000000000001, 0.65, 0.7000000000000001, 0.75, 0.8, 0.8500000000000001, 0.9, 0.9500000000000001, 1.0, 1.05, 1.1, 1.1500000000000001, 1.2000000000000002, 1.25, 1.3, 1.35, 1.4000000000000001, 1.4500000000000002, 1.5, 1.55, 1.6, 1.6500000000000001, 1.7000000000000002, 1.75, 1.8, 1.85, 1.9000000000000001, 1.9500000000000002, 2.0, 2.0500000000000003, 2.1, 2.15, 2.2, 2.25, 2.3000000000000003, 2.35, 2.4000000000000004, 2.45, 2.5, 2.5500000000000003, 2.6, 2.6500000000000004, 2.7, 2.75, 2.8000000000000003, 2.85, 2.9000000000000004, 2.95, 3.0, 3.0500000000000003, 3.1, 3.1500000000000004, 3.2, 3.25, 3.3000000000000003, 3.35, 3.4000000000000004, 3.45, 3.5, 3.5500000000000003, 3.6, 3.6500000000000004, 3.7, 3.75, 3.8000000000000003, 3.85, 3.9000000000000004, 3.95, 4.0, 4.05, 4.1000000000000005, 4.15, 4.2, 4.25, 4.3, 4.3500000000000005, 4.4, 4.45, 4.5, 4.55, 4.6000000000000005, 4.65, 4.7, 4.75, 4.800000000000001, 4.8500000000000005, 4.9, 4.95, 5.0, 5.050000000000001, 5.1000000000000005, 5.15, 5.2, 5.25, 5.300000000000001, 5.3500000000000005, 5.4, 5.45, 5.5, 5.550000000000001, 5.6000000000000005, 5.65, 5.7, 5.75, 5.800000000000001, 5.8500000000000005, 5.9, 5.95, 6.0, 6.050000000000001, 6.1000000000000005, 6.15, 6.2, 6.25, 6.300000000000001, 6.3500000000000005, 6.4, 6.45, 6.5, 6.550000000000001, 6.6000000000000005, 6.65, 6.7, 6.75, 6.800000000000001, 6.8500000000000005, 6.9, 6.95, 7.0], "y": [9.6075, 10.23, 10.8675, 11.52, 12.1875, 12.870000000000001, 13.567499999999999, 14.280000000000001, 15.0075, 15.75, 16.5075, 17.28, 17.9796875, 18.668750000000003, 19.3671875, 20.075000000000003, 20.7921875, 21.51875, 22.2546875, 23.0, 23.7546875, 24.51875, 25.2921875, 26.075000000000003, 26.8671875, 27.66875, 28.4796875, 29.3, 30.129687500000003, 30.96875, 31.817187500000003, 32.675000000000004, 33.5421875, 34.41875, 35.287499999999994, 36.096000000000004, 36.911500000000004, 37.734, 38.563500000000005, 39.4, 40.2435, 41.093999999999994, 41.951499999999996, 42.816, 43.6875, 44.566, 45.4515, 46.344, 47.243500000000004, 48.15, 49.063500000000005, 49.98, 50.83781250000001, 51.70125, 52.5703125, 53.44500000000001, 54.3253125, 55.21125000000001, 56.1028125, 57.0, 57.90281250000001, 58.81125, 59.72531250000001, 60.645, 61.5703125, 62.50125, 63.42692857142857, 64.31085714285715, 65.1995, 66.09285714285714, 66.99092857142857, 67.89371428571428, 68.8012142857143, 69.71342857142858, 70.63035714285715, 71.552, 72.47835714285715, 73.40942857142858, 74.34521428571429, 75.28571428571428, 76.20828125, 77.108125, 78.01203125, 78.92, 79.83203125, 80.748125, 81.66828125, 82.5925, 83.52078125, 84.453125, 85.38953124999999, 86.33, 87.27453125000001, 88.20714285714287, 89.11607142857143, 90.02857142857144, 90.94464285714287, 91.86428571428573, 92.78750000000001, 93.71428571428572, 94.64464285714287, 95.57857142857144, 96.51607142857144, 97.45714285714287, 98.40178571428572, 99.35000000000001, 100.27559375, 101.19200000000001, 102.11159375, 103.034375, 103.96034375, 104.88950000000001, 105.82184375, 106.757375, 107.69609374999999, 108.638, 109.58309375, 110.53137499999998, 111.47416666666668, 112.3939393939394, 113.31659090909093, 114.24212121212123, 115.1705303030303, 116.10181818181819, 117.03598484848486, 117.97303030303033, 118.91295454545457, 119.8557575757576, 120.80143939393939, 121.75000000000001, 122.70131250000001, 123.62400000000001, 124.54931250000001, 125.47725000000001, 126.4078125, 127.34100000000002, 128.2768125, 129.21525000000003, 130.1563125, 131.10000000000002], "mode": "lines", "line": {"color": "#3fe7f5", "width": 6}, "showlegend": false}, {"x": [1], "y": [23], "mode": "markers", "showlegend": false, "marker": {"color": "#ffffff", "size": 14, "symbol": "diamond", "line": {"color": "#f9f871", "width": 4}}}],
 {paper_bgcolor:'rgba(0,0,0,0)',plot_bgcolor:'rgba(6,6,14,0.3)',
- xaxis:{title:'lambda',color:'#7f93bb',gridcolor:'rgba(45,45,80,.35)',range:[0,6]},
- yaxis:{title:'D (dimensions)',color:'#7f93bb',gridcolor:'rgba(45,45,80,.35)',range:[4,120]},
- legend:{font:{color:'#7f93bb',size:11},bgcolor:'rgba(7,7,15,.5)',x:0.02,y:0.98},
- margin:{t:10,b:60,l:60,r:20}},{displayModeBar:false});
+ xaxis:{title:{text:'lambda — how string-like the theory is',font:{size:15}},color:'#7f93bb',gridcolor:'rgba(45,45,80,.35)',range:[0,6.2]},
+ yaxis:{title:{text:'D — dimensions of space',font:{size:15}},color:'#7f93bb',gridcolor:'rgba(45,45,80,.35)',range:[4,115]},
+ annotations: [{"x": 4.6, "y": 30, "text": "<b>LIVING LAND</b><br>allowed theories of gravity<br>(below the shore)", "showarrow": false, "font": {"color": "#9ff5ff", "size": 17}, "align": "center"}, {"x": 1.05, "y": 100, "text": "<b>DEAD LAND</b><br>already excluded by the shore", "showarrow": false, "font": {"color": "#7f93bb", "size": 17}, "align": "center"}, {"x": 2.45, "y": 62, "text": "<b>THE BLADES</b><br>extra kill-windows found by the master formula:<br>level 6 (pink), 8 (violet), 11 (blue) — and so on", "showarrow": false, "font": {"color": "#ff5f95", "size": 15}, "align": "center"}, {"x": 3.6, "y": 83.5, "text": "every blade floats ABOVE the shore —<br>none ever cuts into the living land<br>(1,538,164 exact checks, 0 hits)", "showarrow": false, "font": {"color": "#f9f871", "size": 15}, "align": "center"}, {"x": 1.35, "y": 17.5, "text": "<b>the string</b> — on the shore at D=23", "showarrow": false, "font": {"color": "#f9f871", "size": 15}, "align": "center"}, {"x": 1, "y": 23, "ax": 40, "ay": 28, "text": "", "showarrow": true, "arrowcolor": "#f9f871", "arrowwidth": 2}],
+ margin:{t:8,b:60,l:64,r:16}},{displayModeBar:false});
 </script></body></html>

diff --git a/projects/qg-bootstrap/paper3/main.tex b/projects/qg-bootstrap/paper3/main.tex
@@ -123,12 +123,14 @@ agreements.
 \begin{figure}[t]
 \centering
 \includegraphics[width=\textwidth]{fig_knives.png}
-\caption{All knives hang above the shore. Shaded blades: negativity windows
-of the $j{=}3$ trajectory for successive levels $n$, computed from the
-master formula (every curve exact). Cyan line: the shore $\min_nT_n$ of
-\cite{shore}; the diamond is the string at $D=23$. The windows approach the
-shore (closest margin $2.17$ dimensions at $\lambda=0.05$) but never dip
-below it.}
+\caption{One picture of the whole result. The cyan shore $\min_nT_n$ of
+\cite{shore} divides the living land (allowed theories, below) from the dead
+land (excluded, above); the diamond is the string at $D=23$. Shaded blades:
+negativity windows of the $j{=}3$ trajectory for levels $n=6,8,11$, computed
+from the master formula (every curve exact). Every blade floats strictly
+above the shore --- closest margin $2.17$ dimensions at $\lambda=0.05$ ---
+and the $1{,}538{,}164$-point battery over \emph{all} knives finds zero cuts
+into the living land.}
 \label{fig:knives}
 \end{figure}
 
